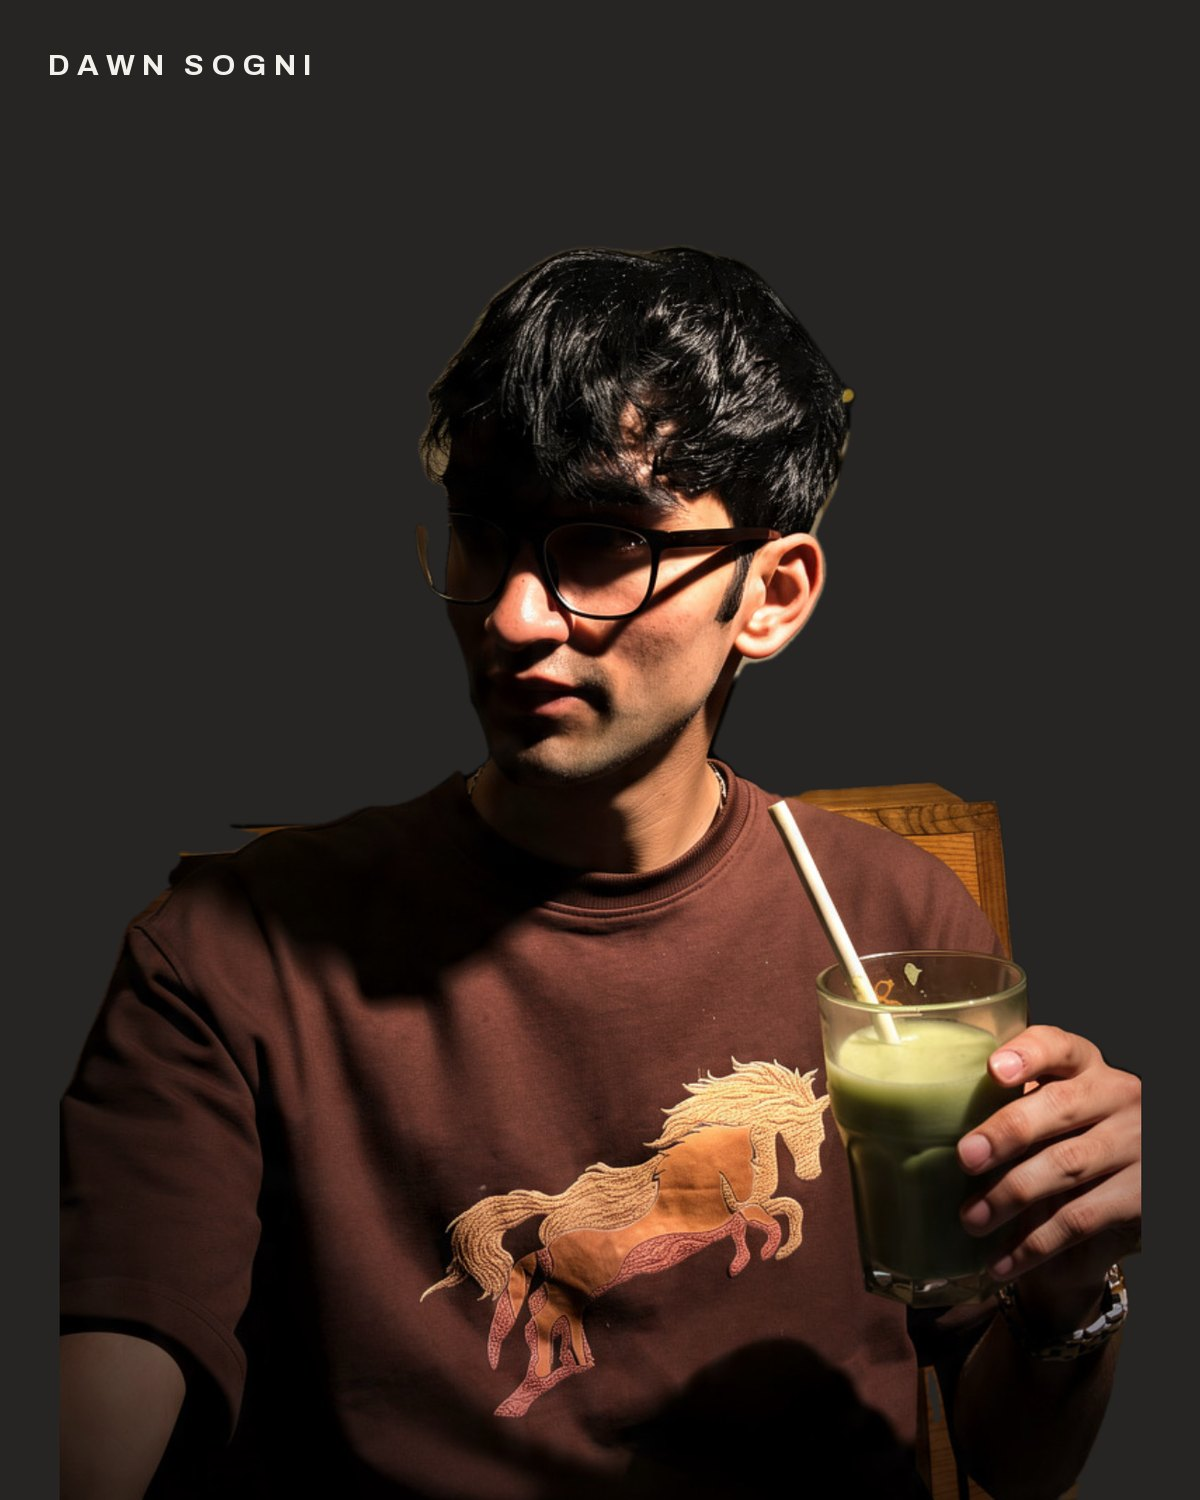
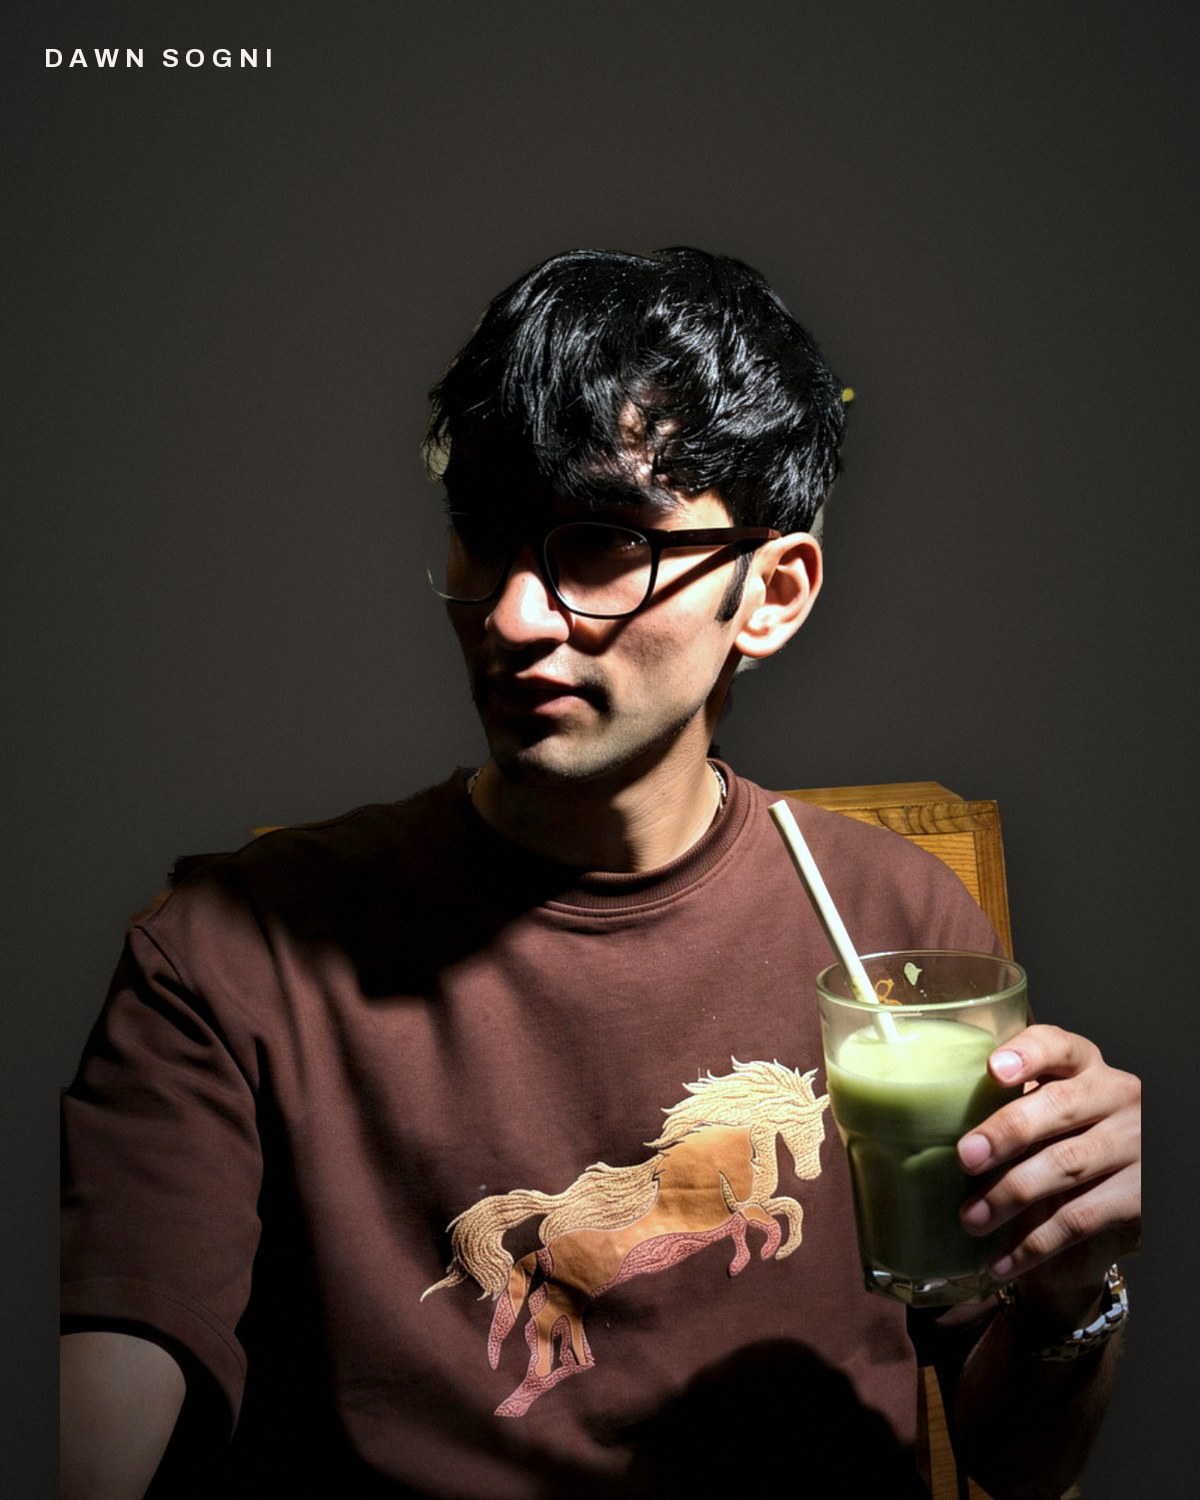
Re-edit photos (matted edges, graded, studio backdrop); smaller cards
Claude-Session: https://claude.ai/code/session_01C4RBiZ1FrwvXjZfatnpyXS

diff --git a/products.js b/products.js
@@ -39,47 +39,47 @@ window.DS = {
 
   products: [
     {
-      id: "DS-01", name: "Mustang", photo: "images/ds-01.jpg", colorName: "Chocolate brown",
+      id: "DS-01", name: "Mustang", photo: "images/ds-01.jpg?v=2", colorName: "Chocolate brown",
       description: "A galloping horse in sand, rust and rose tones across the chest, on a deep chocolate brown tee.",
       prices: { regular: 500, oversized: 600 }, sizes: ["S", "M", "L", "XL", "XXL"]
     },
     {
-      id: "DS-02", name: "World Tour '26", photo: "images/ds-02.jpg", colorName: "Red",
+      id: "DS-02", name: "World Tour '26", photo: "images/ds-02.jpg?v=2", colorName: "Red",
       description: "Dawn Sogni in sky-blue block letters over a world map, with clouds drifting through and \"Twenty Twenty Six\" arched below. Big back print on bold red.",
       prices: { regular: 500, oversized: 600 }, sizes: ["S", "M", "L", "XL", "XXL"]
     },
     {
-      id: "DS-03", name: "Music Is My Only Drug", photo: "images/ds-03.jpg", colorName: "Black",
+      id: "DS-03", name: "Music Is My Only Drug", photo: "images/ds-03.jpg?v=2", colorName: "Black",
       description: "Warped white lettering stacked down the back. For the ones whose headphones never come off.",
       prices: { regular: 500, oversized: 600 }, sizes: ["S", "M", "L", "XL", "XXL"]
     },
     {
-      id: "DS-04", name: "Root of All Evil", photo: "images/ds-04.jpg", colorName: "Dusty blue",
+      id: "DS-04", name: "Root of All Evil", photo: "images/ds-04.jpg?v=2", colorName: "Dusty blue",
       description: "\"For the love of money is the root of all evil\" in tall, warped white type down the back, with a small Dawn Sogni above it.",
       prices: { regular: 500, oversized: 600 }, sizes: ["S", "M", "L", "XL", "XXL"]
     },
     {
-      id: "DS-05", name: "One Last Ride", photo: "images/ds-05.jpg", colorName: "Lavender",
+      id: "DS-05", name: "One Last Ride", photo: "images/ds-05.jpg?v=2", colorName: "Lavender",
       description: "A crouching black panther over \"One Last Ride\" in varsity letters, printed across the back of a soft lavender tee.",
       prices: { regular: 500, oversized: 600 }, sizes: ["S", "M", "L", "XL", "XXL"]
     },
     {
-      id: "DS-06", name: "Signature Halftone", photo: "images/ds-06.jpg", colorName: "Black",
+      id: "DS-06", name: "Signature Halftone", photo: "images/ds-06.jpg?v=2", colorName: "Black",
       description: "A halftone portrait in periwinkle across the back, signed with the Dawn Sogni script in white.",
       prices: { regular: 500, oversized: 600 }, sizes: ["S", "M", "L", "XL", "XXL"]
     },
     {
-      id: "DS-07", name: "You Just Gotta Chill", photo: "images/ds-07.jpg", colorName: "White",
+      id: "DS-07", name: "You Just Gotta Chill", photo: "images/ds-07.jpg?v=2", colorName: "White",
       description: "A bold black silhouette under hand-script lettering arched across the back. Clean white tee, loud message.",
       prices: { regular: 500, oversized: 600 }, sizes: ["S", "M", "L", "XL", "XXL"]
     },
     {
-      id: "DS-08", name: "Praying Mantis", photo: "images/ds-08.jpg", colorName: "Black",
+      id: "DS-08", name: "Praying Mantis", photo: "images/ds-08.jpg?v=2", colorName: "Black",
       description: "A silver-grey mantis climbing up the back, with \"Praying Mantis\" written beside it in gold script.",
       prices: { regular: 500, oversized: 600 }, sizes: ["S", "M", "L", "XL", "XXL"]
     },
     {
-      id: "DS-09", name: "Gold Script", photo: "images/ds-09.jpg", colorName: "Black",
+      id: "DS-09", name: "Gold Script", photo: "images/ds-09.jpg?v=2", colorName: "Black",
       description: "The Dawn Sogni name in gold script across the chest. The simplest piece in the line, made for everyday wear.",
       prices: { regular: 500, oversized: 600 }, sizes: ["S", "M", "L", "XL", "XXL"]
     }

diff --git a/styles.css b/styles.css
@@ -163,7 +163,12 @@ h2 { font-size: clamp(36px, 4.6vw, 64px); line-height: .95; font-weight: 800; le
 }
 .empty h3 { font-size: clamp(24px, 3vw, 34px); font-weight: 700; letter-spacing: -.01em; }
 .empty p { color: var(--muted); max-width: 42ch; }
-.grid { gap: 40px 20px; }
+.grid { gap: 28px 16px; grid-template-columns: repeat(auto-fill, minmax(170px, 1fr)); }
+.piece-text { margin-top: 10px; flex-direction: column; gap: 2px; }
+.piece-name { font-size: 15px; line-height: 1.3; }
+.piece-meta { font-size: 13px; }
+.piece-price { font-size: 14px; font-weight: 600; }
+@media (max-width: 520px) { .grid { grid-template-columns: repeat(2, 1fr); gap: 24px 12px; } }
 
 /* size chart */
 .sizes { padding: clamp(56px, 8vw, 104px) var(--pad); border-bottom: 1px solid var(--line); }
